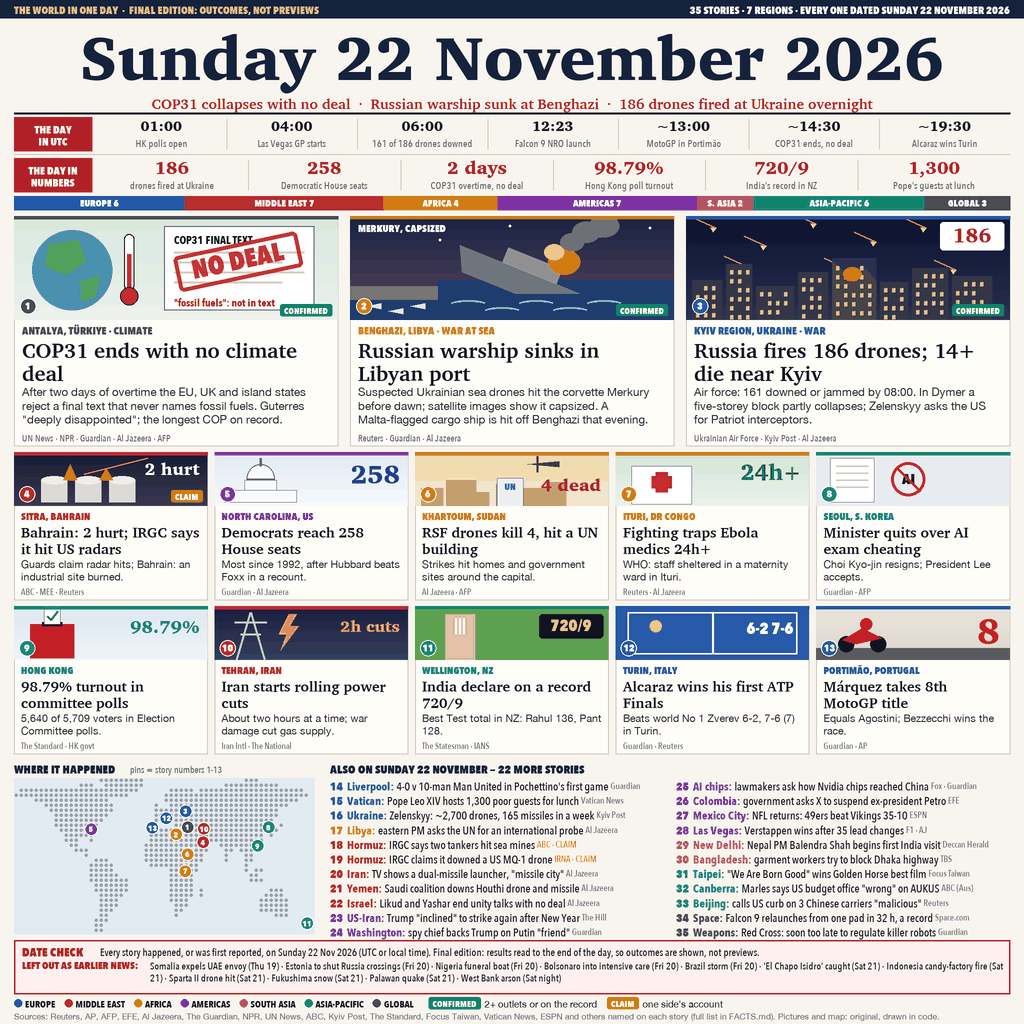
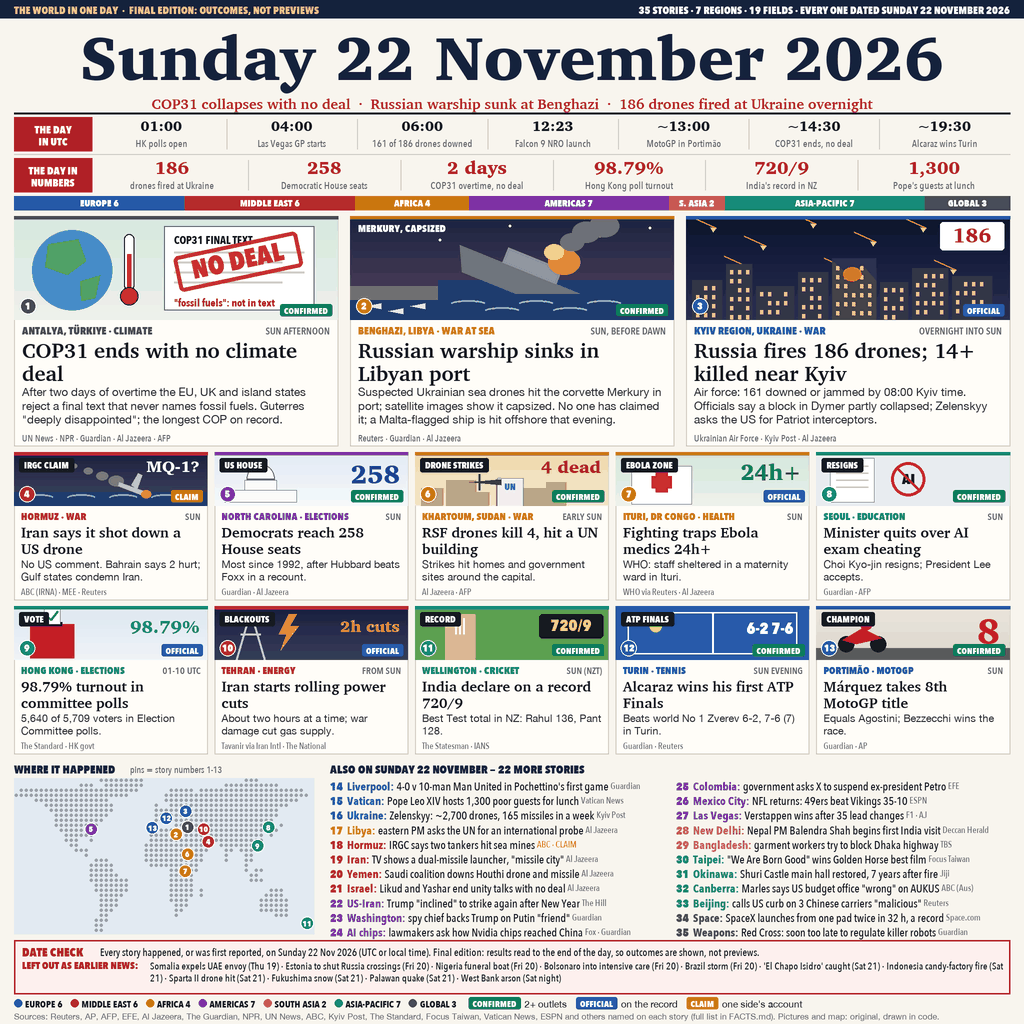
v6: Sunday-only Middle East card, time stamps, fields and three-level status tags

diff --git a/render.py b/render.py
@@ -119,92 +119,105 @@ def chip(x, y, label, col, right=False):
     return w
 
 
-STATUS = {'CONFIRMED': GREEN, 'CLAIM': ORANGE}
+STATUS = {'CONFIRMED': GREEN, 'OFFICIAL': (40, 92, 170), 'CLAIM': ORANGE}
 
 # ------------------------------------------------------------------ stories
-# leads and cards carry a map position (lon, lat) and a drawing; briefs are one line each.
+# leads and cards carry a field, a time stamp, a map position (lon, lat) and a drawing; briefs are one line each.
 LEADS = [
-    dict(n=1, region='GLOBAL', place='ANTALYA, TÜRKIYE · CLIMATE', status='CONFIRMED', art='cop', ll=(30.7, 36.9),
+    dict(n=1, region='GLOBAL', field='CLIMATE', place='ANTALYA, TÜRKIYE', when='SUN AFTERNOON', status='CONFIRMED',
+         art='cop', ll=(30.7, 36.9),
          head='COP31 ends with no climate deal',
          dek='After two days of overtime the EU, UK and island states reject a final text that never names fossil '
              'fuels. Guterres "deeply disappointed"; the longest COP on record.',
          src='UN News · NPR · Guardian · Al Jazeera · AFP'),
-    dict(n=2, region='AFRICA', place='BENGHAZI, LIBYA · WAR AT SEA', status='CONFIRMED', art='ship', ll=(20.1, 32.1),
+    dict(n=2, region='AFRICA', field='WAR AT SEA', place='BENGHAZI, LIBYA', when='SUN, BEFORE DAWN', status='CONFIRMED',
+         art='ship', ll=(20.1, 32.1),
          head='Russian warship sinks in Libyan port',
-         dek='Suspected Ukrainian sea drones hit the corvette Merkury before dawn; satellite images show it '
-             'capsized. A Malta-flagged cargo ship is hit off Benghazi that evening.',
+         dek='Suspected Ukrainian sea drones hit the corvette Merkury in port; satellite images show it capsized. '
+             'No one has claimed it; a Malta-flagged ship is hit offshore that evening.',
          src='Reuters · Guardian · Al Jazeera'),
-    dict(n=3, region='EUROPE', place='KYIV REGION, UKRAINE · WAR', status='CONFIRMED', art='drones', ll=(30.3, 50.8),
-         head='Russia fires 186 drones; 14+ die near Kyiv',
-         dek='Air force: 161 downed or jammed by 08:00. In Dymer a five-storey block partly collapses; '
-             'Zelenskyy asks the US for Patriot interceptors.',
+    dict(n=3, region='EUROPE', field='WAR', place='KYIV REGION, UKRAINE', when='OVERNIGHT INTO SUN', status='OFFICIAL',
+         art='drones', ll=(30.3, 50.8),
+         head='Russia fires 186 drones; 14+ killed near Kyiv',
+         dek='Air force: 161 downed or jammed by 08:00 Kyiv time. Officials say a block in Dymer partly '
+             'collapsed; Zelenskyy asks the US for Patriot interceptors.',
          src='Ukrainian Air Force · Kyiv Post · Al Jazeera'),
 ]
 CARDS = [
-    dict(n=4, region='MIDDLE EAST', place='SITRA, BAHRAIN', status='CLAIM', art='bahrain', ll=(50.6, 26.2),
-         head='Bahrain: 2 hurt; IRGC says it hit US radars',
-         dek="Guards claim radar hits; Bahrain: an industrial site burned.",
-         src='ABC · MEE · Reuters'),
-    dict(n=5, region='AMERICAS', place='NORTH CAROLINA, US', status='CONFIRMED', art='capitol', ll=(-80.0, 36.0),
+    dict(n=4, region='MIDDLE EAST', field='WAR', place='HORMUZ', when='SUN', status='CLAIM', art='hormuz',
+         ll=(56.3, 26.6), label='IRGC CLAIM',
+         head='Iran says it shot down a US drone',
+         dek='No US comment. Bahrain says 2 hurt; Gulf states condemn Iran.',
+         src='ABC (IRNA) · MEE · Reuters'),
+    dict(n=5, region='AMERICAS', field='ELECTIONS', place='NORTH CAROLINA', when='SUN', status='CONFIRMED',
+         art='capitol', ll=(-80.0, 36.0), label='US HOUSE',
          head='Democrats reach 258 House seats',
          dek='Most since 1992, after Hubbard beats Foxx in a recount.',
          src='Guardian · Al Jazeera'),
-    dict(n=6, region='AFRICA', place='KHARTOUM, SUDAN', status='CONFIRMED', art='sudan', ll=(32.5, 15.6),
+    dict(n=6, region='AFRICA', field='WAR', place='KHARTOUM, SUDAN', when='EARLY SUN', status='CONFIRMED',
+         art='sudan', ll=(32.5, 15.6), label='DRONE STRIKES',
          head='RSF drones kill 4, hit a UN building',
          dek='Strikes hit homes and government sites around the capital.',
          src='Al Jazeera · AFP'),
-    dict(n=7, region='AFRICA', place='ITURI, DR CONGO', status='CONFIRMED', art='hospital', ll=(30.0, 1.5),
+    dict(n=7, region='AFRICA', field='HEALTH', place='ITURI, DR CONGO', when='SUN', status='OFFICIAL',
+         art='hospital', ll=(30.0, 1.5), label='EBOLA ZONE',
          head='Fighting traps Ebola medics 24h+',
          dek='WHO: staff sheltered in a maternity ward in Ituri.',
-         src='Reuters · Al Jazeera'),
-    dict(n=8, region='ASIA-PACIFIC', place='SEOUL, S. KOREA', status='CONFIRMED', art='exam', ll=(127.0, 37.5),
+         src='WHO via Reuters · Al Jazeera'),
+    dict(n=8, region='ASIA-PACIFIC', field='EDUCATION', place='SEOUL', when='SUN', status='CONFIRMED',
+         art='exam', ll=(127.0, 37.5), label='RESIGNS',
          head='Minister quits over AI exam cheating',
          dek='Choi Kyo-jin resigns; President Lee accepts.',
          src='Guardian · AFP'),
-    dict(n=9, region='ASIA-PACIFIC', place='HONG KONG', status='CONFIRMED', art='ballot', ll=(114.2, 22.3),
+    dict(n=9, region='ASIA-PACIFIC', field='ELECTIONS', place='HONG KONG', when='01-10 UTC', status='OFFICIAL',
+         art='ballot', ll=(114.2, 22.3), label='VOTE',
          head='98.79% turnout in committee polls',
          dek='5,640 of 5,709 voters in Election Committee polls.',
          src='The Standard · HK govt'),
-    dict(n=10, region='MIDDLE EAST', place='TEHRAN, IRAN', status='CONFIRMED', art='power', ll=(51.4, 35.7),
+    dict(n=10, region='MIDDLE EAST', field='ENERGY', place='TEHRAN', when='FROM SUN', status='OFFICIAL',
+         art='power', ll=(51.4, 35.7), label='BLACKOUTS',
          head='Iran starts rolling power cuts',
          dek='About two hours at a time; war damage cut gas supply.',
-         src='Iran Intl · The National'),
-    dict(n=11, region='ASIA-PACIFIC', place='WELLINGTON, NZ', status='CONFIRMED', art='cricket', ll=(174.8, -41.3),
+         src='Tavanir via Iran Intl · The National'),
+    dict(n=11, region='ASIA-PACIFIC', field='CRICKET', place='WELLINGTON', when='SUN (NZT)', status='CONFIRMED',
+         art='cricket', ll=(174.8, -41.3), label='RECORD',
          head='India declare on a record 720/9',
          dek='Best Test total in NZ: Rahul 136, Pant 128.',
          src='The Statesman · IANS'),
-    dict(n=12, region='EUROPE', place='TURIN, ITALY', status='CONFIRMED', art='tennis', ll=(7.7, 45.1),
+    dict(n=12, region='EUROPE', field='TENNIS', place='TURIN', when='SUN EVENING', status='CONFIRMED',
+         art='tennis', ll=(7.7, 45.1), label='ATP FINALS',
          head='Alcaraz wins his first ATP Finals',
          dek='Beats world No 1 Zverev 6-2, 7-6 (7) in Turin.',
          src='Guardian · Reuters'),
-    dict(n=13, region='EUROPE', place='PORTIMÃO, PORTUGAL', status='CONFIRMED', art='moto', ll=(-8.5, 37.1),
+    dict(n=13, region='EUROPE', field='MOTOGP', place='PORTIMÃO', when='SUN', status='CONFIRMED',
+         art='moto', ll=(-8.5, 37.1), label='CHAMPION',
          head='Márquez takes 8th MotoGP title',
          dek='Equals Agostini; Bezzecchi wins the race.',
          src='Guardian · AP'),
 ]
-BRIEFS = [  # region, place, text, outlet, status
-    ('EUROPE', 'Liverpool', '4-0 v 10-man Man United in Pochettino\'s first game', 'Guardian', 'CONFIRMED'),
-    ('EUROPE', 'Vatican', 'Pope Leo XIV hosts 1,300 poor guests for lunch', 'Vatican News', 'CONFIRMED'),
-    ('EUROPE', 'Ukraine', 'Zelenskyy: ~2,700 drones, 165 missiles in a week', 'Kyiv Post', 'CONFIRMED'),
-    ('AFRICA', 'Libya', 'eastern PM asks the UN for an international probe', 'Al Jazeera', 'CONFIRMED'),
-    ('MIDDLE EAST', 'Hormuz', 'IRGC says two tankers hit sea mines', 'ABC', 'CLAIM'),
-    ('MIDDLE EAST', 'Hormuz', 'IRGC claims it downed a US MQ-1 drone', 'IRNA', 'CLAIM'),
-    ('MIDDLE EAST', 'Iran', 'TV shows a dual-missile launcher, "missile city"', 'Al Jazeera', 'CONFIRMED'),
-    ('MIDDLE EAST', 'Yemen', 'Saudi coalition downs Houthi drone and missile', 'Al Jazeera', 'CONFIRMED'),
-    ('MIDDLE EAST', 'Israel', 'Likud and Yashar end unity talks with no deal', 'Al Jazeera', 'CONFIRMED'),
-    ('AMERICAS', 'US-Iran', 'Trump "inclined" to strike again after New Year', 'The Hill', 'CONFIRMED'),
-    ('AMERICAS', 'Washington', 'spy chief backs Trump on Putin "friend"', 'Guardian', 'CONFIRMED'),
-    ('AMERICAS', 'AI chips', 'lawmakers ask how Nvidia chips reached China', 'Fox · Guardian', 'CONFIRMED'),
-    ('AMERICAS', 'Colombia', 'government asks X to suspend ex-president Petro', 'EFE', 'CONFIRMED'),
-    ('AMERICAS', 'Mexico City', 'NFL returns: 49ers beat Vikings 35-10', 'ESPN', 'CONFIRMED'),
-    ('AMERICAS', 'Las Vegas', 'Verstappen wins after 35 lead changes', 'F1 · AJ', 'CONFIRMED'),
-    ('SOUTH ASIA', 'New Delhi', 'Nepal PM Balendra Shah begins first India visit', 'Deccan Herald', 'CONFIRMED'),
-    ('SOUTH ASIA', 'Bangladesh', 'garment workers try to block Dhaka highway', 'TBS', 'CONFIRMED'),
-    ('ASIA-PACIFIC', 'Taipei', '"We Are Born Good" wins Golden Horse best film', 'Focus Taiwan', 'CONFIRMED'),
-    ('ASIA-PACIFIC', 'Canberra', 'Marles says US budget office "wrong" on AUKUS', 'ABC (Aus)', 'CONFIRMED'),
-    ('ASIA-PACIFIC', 'Beijing', 'calls US curb on 3 Chinese carriers "malicious"', 'Reuters', 'CONFIRMED'),
-    ('GLOBAL', 'Space', 'Falcon 9 relaunches from one pad in 32 h, a record', 'Space.com', 'CONFIRMED'),
-    ('GLOBAL', 'Weapons', 'Red Cross: soon too late to regulate killer robots', 'Guardian', 'CONFIRMED'),
+BRIEFS = [  # region, place, text, outlet, status, field
+    ('EUROPE', 'Liverpool', '4-0 v 10-man Man United in Pochettino\'s first game', 'Guardian', 'CONFIRMED', 'FOOTBALL'),
+    ('EUROPE', 'Vatican', 'Pope Leo XIV hosts 1,300 poor guests for lunch', 'Vatican News', 'OFFICIAL', 'FAITH'),
+    ('EUROPE', 'Ukraine', 'Zelenskyy: ~2,700 drones, 165 missiles in a week', 'Kyiv Post', 'OFFICIAL', 'WAR'),
+    ('AFRICA', 'Libya', 'eastern PM asks the UN for an international probe', 'Al Jazeera', 'OFFICIAL', 'DIPLOMACY'),
+    ('MIDDLE EAST', 'Hormuz', 'IRGC says two tankers hit sea mines', 'ABC', 'CLAIM', 'SHIPPING'),
+    ('MIDDLE EAST', 'Iran', 'TV shows a dual-missile launcher, "missile city"', 'Al Jazeera', 'CONFIRMED', 'DEFENCE'),
+    ('MIDDLE EAST', 'Yemen', 'Saudi coalition downs Houthi drone and missile', 'Al Jazeera', 'CONFIRMED', 'WAR'),
+    ('MIDDLE EAST', 'Israel', 'Likud and Yashar end unity talks with no deal', 'Al Jazeera', 'CONFIRMED', 'POLITICS'),
+    ('AMERICAS', 'US-Iran', 'Trump "inclined" to strike again after New Year', 'The Hill', 'CONFIRMED', 'DIPLOMACY'),
+    ('AMERICAS', 'Washington', 'spy chief backs Trump on Putin "friend"', 'Guardian', 'CONFIRMED', 'POLITICS'),
+    ('AMERICAS', 'AI chips', 'lawmakers ask how Nvidia chips reached China', 'Fox · Guardian', 'CONFIRMED', 'TECH'),
+    ('AMERICAS', 'Colombia', 'government asks X to suspend ex-president Petro', 'EFE', 'OFFICIAL', 'POLITICS'),
+    ('AMERICAS', 'Mexico City', 'NFL returns: 49ers beat Vikings 35-10', 'ESPN', 'CONFIRMED', 'NFL'),
+    ('AMERICAS', 'Las Vegas', 'Verstappen wins after 35 lead changes', 'F1 · AJ', 'CONFIRMED', 'F1'),
+    ('SOUTH ASIA', 'New Delhi', 'Nepal PM Balendra Shah begins first India visit', 'Deccan Herald', 'CONFIRMED', 'DIPLOMACY'),
+    ('SOUTH ASIA', 'Bangladesh', 'garment workers try to block Dhaka highway', 'TBS', 'CONFIRMED', 'LABOUR'),
+    ('ASIA-PACIFIC', 'Taipei', '"We Are Born Good" wins Golden Horse best film', 'Focus Taiwan', 'CONFIRMED', 'FILM'),
+    ('ASIA-PACIFIC', 'Okinawa', 'Shuri Castle main hall restored, 7 years after fire', 'Jiji', 'CONFIRMED', 'HERITAGE'),
+    ('ASIA-PACIFIC', 'Canberra', 'Marles says US budget office "wrong" on AUKUS', 'ABC (Aus)', 'CONFIRMED', 'DEFENCE'),
+    ('ASIA-PACIFIC', 'Beijing', 'calls US curb on 3 Chinese carriers "malicious"', 'Reuters', 'OFFICIAL', 'TRADE'),
+    ('GLOBAL', 'Space', 'SpaceX launches from one pad twice in 32 h, a record', 'Space.com', 'CONFIRMED', 'SPACE'),
+    ('GLOBAL', 'Weapons', 'Red Cross: soon too late to regulate killer robots', 'Guardian', 'CONFIRMED', 'ARMS CONTROL'),
 ]
 STORIES = len(LEADS) + len(CARDS) + len(BRIEFS)
 assert STORIES == 35, STORIES
@@ -213,11 +226,15 @@ for s in LEADS + CARDS:
     counts[s['region']] += 1
 for b in BRIEFS:
     counts[b[0]] += 1
+SPORTS = {'CRICKET', 'TENNIS', 'MOTOGP', 'FOOTBALL', 'NFL', 'F1'}
+FIELDS = {('SPORT' if f in SPORTS else 'WAR' if f.startswith('WAR') else f) for f in [s['field'] for s in LEADS + CARDS] + [b[5] for b in BRIEFS]}
+NFIELDS = len(FIELDS)
+print('fields', NFIELDS, sorted(FIELDS))
 
 # ------------------------------------------------------------------ top rail and masthead
 rect(0, 0, W, 18, fill=NAVY)
 text(14, 3.5, 'THE WORLD IN ONE DAY  ·  FINAL EDITION: OUTCOMES, NOT PREVIEWS', 'heavy', 10.5, (240, 200, 100))
-text(W - 14, 3.5, '%d STORIES · 7 REGIONS · EVERY ONE DATED SUNDAY 22 NOVEMBER 2026' % STORIES,
+text(W - 14, 3.5, '%d STORIES · 7 REGIONS · %d FIELDS · EVERY ONE DATED SUNDAY 22 NOVEMBER 2026' % (STORIES, NFIELDS),
      'heavy', 10.5, (255, 255, 255), 'ra')
 MAST = 'Sunday 22 November 2026'
 assert tw(MAST, 'black', 62) < 990
@@ -377,6 +394,21 @@ def art_bahrain(x, y, w, h):
     text(x + w - 8, y + 6, '2 hurt', 'black', 17, (255, 255, 255), 'ra')
 
 
+def art_hormuz(x, y, w, h):
+    sky(x, y, w, h, (24, 32, 62), (70, 70, 98))
+    rect(x, y + h - 14, x + w, y + h, fill=(30, 60, 110))
+    for i in range(4):
+        d.arc(P(x + 10 + i * 42, y + h - 12, x + 40 + i * 42, y + h - 4), 200, 340, fill=(140, 170, 210), width=2 * S)
+    # falling drone with a smoke trail and a question of who is right: the claim chip carries that
+    for k, r in enumerate([3, 4.5, 6, 7.5]):
+        ell(x + 60 + k * 14, y + 14 + k * 5, r, r * 0.7, fill=(120, 120, 128))
+    dx, dy = x + 120, y + 34
+    poly([(dx - 15, dy - 4), (dx + 13, dy + 6), (dx + 10, dy + 10), (dx - 16, dy)], (190, 192, 200))
+    poly([(dx - 3, dy - 1), (dx + 4, dy - 13), (dx + 8, dy - 11), (dx + 3, dy + 3)], (190, 192, 200))
+    ell(dx + 12, dy + 8, 5, 4, fill=(245, 150, 40))
+    text(x + w - 8, y + 4, 'MQ-1?', 'black', 16, (255, 255, 255), 'ra')
+
+
 def art_capitol(x, y, w, h):
     sky(x, y, w, h, (226, 234, 246), (246, 248, 252))
     cx, base = x + 46, y + h - 4
@@ -394,10 +426,10 @@ def art_sudan(x, y, w, h):
         rect(bx, y + h - bh, bx + bw, y + h, fill=(196, 164, 120) if k != 3 else (150, 120, 90))
     rect(x + 82, y + h - 28, x + 108, y + h, fill=(240, 240, 240), outline=GREY, width=0.8)
     text(x + 95, y + h - 25, 'UN', 'heavy', 9, (40, 110, 190), 'ma')
-    dx, dy = x + 128, y + 12
+    dx, dy = x + 70, y + 30
     poly([(dx - 16, dy), (dx + 16, dy - 3), (dx + 16, dy + 3)], (60, 60, 60))
     line([(dx - 6, dy - 8), (dx - 6, dy + 8)], (60, 60, 60), 2)
-    text(x + w - 8, y + 22, '4 dead', 'black', 17, (150, 40, 30), 'ra')
+    text(x + w - 8, y + 4, '4 dead', 'black', 17, (150, 40, 30), 'ra')
 
 
 def art_hospital(x, y, w, h):
@@ -507,7 +539,10 @@ for i, L in enumerate(LEADS):
     rect(x, LY, x + LW, LY + 3, fill=c)
     badge(x + 6, LY + 82, L['n'], c)
     chip(x + LW - 6, LY + 88, L['status'], STATUS[L['status']], right=True)
-    text(x + 8, LY + 108, L['place'], 'heavy', 10.5, c)
+    tag = '%s · %s' % (L['place'], L['field'])
+    text(x + 8, LY + 108, tag, 'heavy', 10.5, c)
+    text(x + LW - 8, LY + 108.5, L['when'], 'demi', 10, GREY, 'ra')
+    assert tw(tag, 'heavy', 10.5) + tw(L['when'], 'demi', 10) + 10 < LW - 16, tag
     yy = para(x + 8, LY + 121, L['head'], 'serif', 21, LW - 16, 23, INK, 2)
     yy = para(x + 8, yy + 2, L['dek'], 'reg', 11.5, LW - 16, 13.8, (44, 46, 52), 3)
     assert yy <= 432, (L['head'], yy)
@@ -525,9 +560,14 @@ for k, C in enumerate(CARDS):
     draw_art(C['art'], x, y, CWD, 54)
     rect(x, y, x + CWD, y + 3, fill=c)
     badge(x + 5, y + 34, C['n'], c)
-    if C['status'] != 'CONFIRMED':
-        chip(x + CWD - 5, y + 38, C['status'], STATUS[C['status']], right=True)
-    text(x + 7, y + 58, C['place'], 'heavy', 10, c)
+    chip(x + CWD - 5, y + 38, C['status'], STATUS[C['status']], right=True)
+    lw = tw(C['label'], 'heavy', 9) + 10
+    rect(x + 5, y + 6, x + 5 + lw, y + 20, fill=(20, 24, 34), r=2)
+    text(x + 10, y + 7.5, C['label'], 'heavy', 9, (255, 255, 255))
+    tag = '%s · %s' % (C['place'], C['field'])
+    text(x + 7, y + 58, tag, 'heavy', 10, c)
+    text(x + CWD - 7, y + 58.5, C['when'], 'demi', 9.5, GREY, 'ra')
+    assert tw(tag, 'heavy', 10) + tw(C['when'], 'demi', 9.5) + 8 < CWD - 14, tag
     yy = para(x + 7, y + 71, C['head'], 'serif', 14.5, CWD - 14, 16.5, INK, 2)
     yy = para(x + 7, yy + 2, C['dek'], 'reg', 10.5, CWD - 14, 12.5, (44, 46, 52), 3)
     assert yy <= y + 134, (C['head'], yy - y)
@@ -603,7 +643,7 @@ for px, py, ox, oy, s in pins:
 BX = 330
 text(BX, 762, 'ALSO ON SUNDAY 22 NOVEMBER — %d MORE STORIES' % len(BRIEFS), 'heavy', 11.5, NAVY)
 BCW = (W - 14 - BX - 12) / 2
-for k, (reg, place, body, outlet, status) in enumerate(BRIEFS):
+for k, (reg, place, body, outlet, status, _field) in enumerate(BRIEFS):
     col, row = k // 11, k % 11
     x = BX + col * (BCW + 12)
     y = 779 + row * 14.6
@@ -634,13 +674,15 @@ x = 14
 y = 998
 for reg, c in REGIONS.items():
     ell(x + 4, y + 5, 4, 4, fill=c)
-    text(x + 11, y, reg, 'bold', 9.5, INK)
-    x += 11 + tw(reg, 'bold', 9.5) + 9
-x += 6
-for lab, col, desc in [('CONFIRMED', GREEN, '2+ outlets or on the record'), ('CLAIM', ORANGE, "one side's account")]:
+    lab = '%s %d' % (reg, counts[reg])
+    text(x + 11, y, lab, 'bold', 9.5, INK)
+    x += 11 + tw(lab, 'bold', 9.5) + 8
+x += 4
+for lab, col, desc in [('CONFIRMED', GREEN, '2+ outlets'), ('OFFICIAL', STATUS['OFFICIAL'], 'on the record'),
+                       ('CLAIM', ORANGE, "one side's account")]:
     x += chip(x, y - 1, lab, col) + 4
     text(x, y, desc, 'reg', 9.5, INK)
-    x += tw(desc, 'reg', 9.5) + 10
+    x += tw(desc, 'reg', 9.5) + 9
 assert x < W - 10, x
 text(14, 1011, 'Sources: Reuters, AP, AFP, EFE, Al Jazeera, The Guardian, NPR, UN News, ABC, Kyiv Post, The Standard, Focus Taiwan, '
      'Vatican News, ESPN and others named on each story (full list in FACTS.md). Pictures and map: original, drawn in code.',

diff --git a/FACTS.md b/FACTS.md
@@ -99,6 +99,19 @@ Gulf-condemnation brief were dropped to make room; the Pope's lunch and the Nepa
 UTC table adds the Falcon 9 NROL-136 lift-off at 12:23 UTC (Space.com, KEYT). Card figures: Bahrain "2 hurt" (Bahrain
 interior ministry via MEE), Khartoum "4 dead" (Al Jazeera, AFP).
 
+## v6 (35 stories, 19 fields)
+
+- Middle East card now uses only Sunday statements: IRGC (via IRNA, Sunday) claims it shot down a US MQ-1 east of Hormuz,
+  CENTCOM did not comment (ABC News live 22 Nov; Reuters via syndication); Bahrain's interior ministry said on Sunday two
+  people were hurt (MEE); Saudi Arabia, Kuwait and Qatar issued condemnations on Sunday (ABC). Saturday's strike itself is
+  no longer framed as the story. The Shuri Castle restoration brief returns.
+- Every lead and card shows its field and when it happened (from the times above): COP31 close Sunday afternoon
+  (UN News 14:37 UTC report), Benghazi before dawn Sunday (Al Jazeera "at dawn"), Kyiv overnight into Sunday, Khartoum early
+  Sunday, Hong Kong 01-10 UTC (09:00-18:00 HKT), Turin final Sunday evening, Wellington Sunday NZ time.
+- Status tags: CONFIRMED (2+ outlets), OFFICIAL (on the record: Ukrainian Air Force, WHO, HK government, Tavanir, Vatican,
+  Zelenskyy, Libya's eastern government, Colombia's ICT ministry, China's commerce ministry), CLAIM (one side's account).
+- Peru's M6.7 quake was not added to the date check: its date could not be confirmed from a primary source.
+
 Day in numbers and UTC strip: 186 drones / 161 downed (06:00 UTC = 08:00 Kyiv); HK polls 09:00 HKT = 01:00 UTC;
 Las Vegas GP start 20:00 PST = 04:00 UTC; MotoGP, COP31 close, US House call and ATP final times are marked "~" (approximate,
 from report times). Date check: Bolsonaro was taken into intensive care on Fri 20 Nov (Al Jazeera 2026/11/21), so he is left out.

diff --git a/README.md b/README.md
@@ -5,7 +5,8 @@
 [![reward](https://make.fun/badge/news-image-20261122/GAD2412/world-news-2026-11-22/reward.svg)](https://make.fun/bounty/news-image-20261122?utm_source=github&utm_medium=readme&utm_campaign=news-image-20261122)
 
 One 1024x1024 front page of the world's news on Sunday 22 November 2026, final edition: 35 dated stories from 7
-regions, with outcomes rather than previews, set large enough to read when shrunk. Three drawn leads (COP31 ends with
+regions and 19 fields, with outcomes rather than previews, set large enough to read when shrunk. Every lead and card
+carries its field, when it happened and a CONFIRMED / OFFICIAL / CLAIM tag. Three drawn leads (COP31 ends with
 no deal, a Russian warship sunk at Benghazi, 186 Russian drones over Ukraine), ten drawn cards with a key figure, a
 short summary and sources, a UTC table, a day-in-numbers row, a region bar, a numbered locator map whose pins are
 spread out with leader lines, 22 one-line briefs each with
